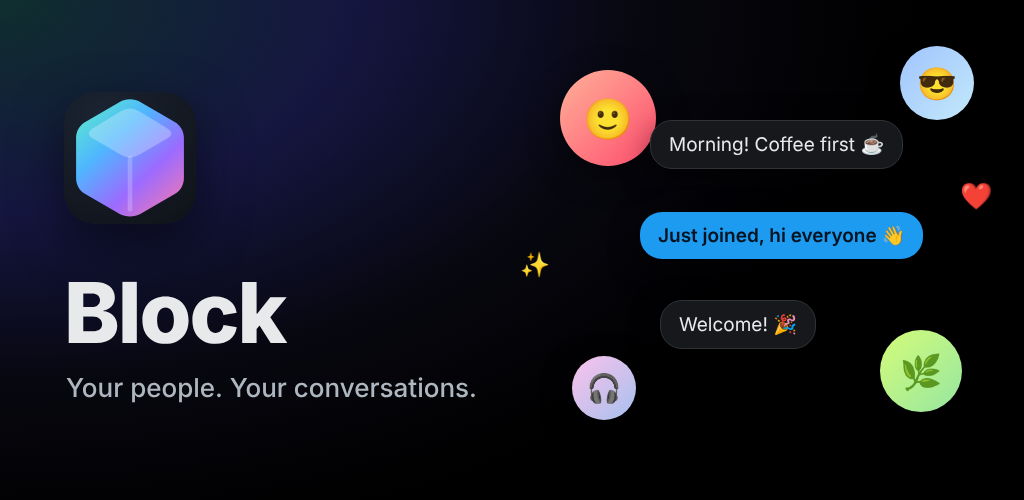
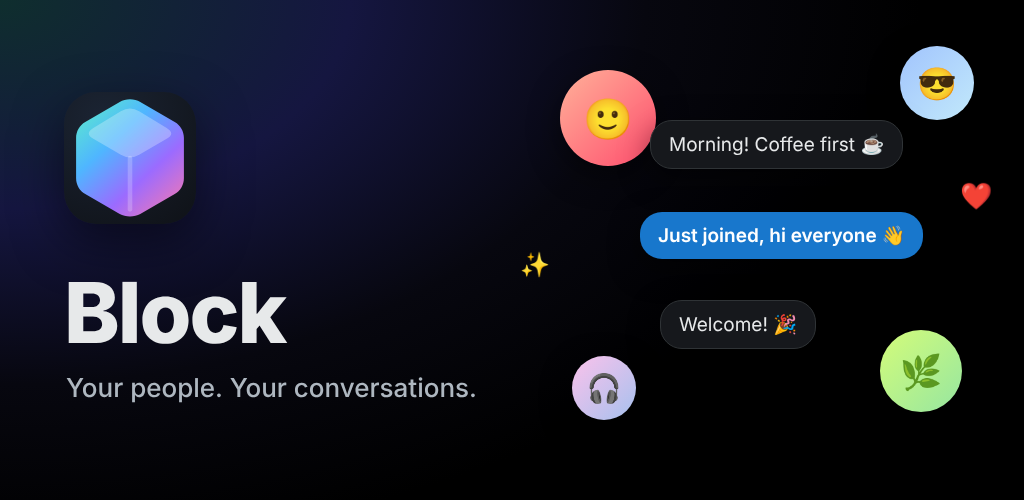
Aurora: deeper sky blue so the New post plus can be white
The accent becomes #1877CC with white on it (4.6:1); it still reads as link
text on black (4.5:1). #1673C2 would be under 4.5:1 as text on black, so
this is the nearest blue that passes both. Captions stay #8B98A5. The store
feature graphic follows.

Claude-Session: https://claude.ai/code/session_01YZhCTQfTgNihqHBkGb9A6s

Changed region(s): [[0.625, 0.42, 0.9062, 0.54]]

diff --git a/app/src/main/java/com/example/btcwidget/theme/AppLook.kt b/app/src/main/java/com/example/btcwidget/theme/AppLook.kt
@@ -14,7 +14,7 @@ enum class AppLook(val id: String, val title: String, val summary: String, val c
      * so they stay readable on sheets.
      */
     AURORA(
-        "aurora", "Aurora", "Black with a soft aurora and sky blue",
+        "aurora", "Aurora", "Black with a soft aurora and deep sky blue",
         LookColors(
             background = 0xFF000000.toInt(),
             body = 0xFF16181C.toInt(),
@@ -24,9 +24,9 @@ enum class AppLook(val id: String, val title: String, val summary: String, val c
             caption = 0xFF8B98A5.toInt(),
             track = 0xFF333639.toInt(),
             alert = 0xFFF4212E.toInt(),
-            accent = 0xFF1D9BF0.toInt(),
-            // Dark ink on the blue: white would be too faint to read there (under 4.5:1).
-            onAccent = 0xFF04131F.toInt(),
+            // A deeper sky blue, so white reads on it (4.6:1) and it still reads as text on black (4.5:1).
+            accent = 0xFF1877CC.toInt(),
+            onAccent = 0xFFFFFFFF.toInt(),
             sheet = 0xFF16181C.toInt(),
             success = 0xFF00BA7C.toInt(),
             glow = Glow(

diff --git a/app/src/main/java/com/example/btcwidget/ui/social/ThaiStrings.kt b/app/src/main/java/com/example/btcwidget/ui/social/ThaiStrings.kt
@@ -1108,6 +1108,6 @@ internal val THAI: Map<String, String> = hashMapOf(
     "New here and saying hi" to "คนมาใหม่ที่กำลังทักทาย",
     // Looks
     "Aurora" to "Aurora",
-    "Black with a soft aurora and sky blue" to "ดำ มีแสง aurora จางๆ และสีฟ้า",
+    "Black with a soft aurora and deep sky blue" to "ดำ มีแสง aurora จางๆ และสีฟ้าเข้ม",
     "Graphite" to "Graphite",
 )

diff --git a/app/src/test/java/com/example/btcwidget/theme/AppLookTest.kt b/app/src/test/java/com/example/btcwidget/theme/AppLookTest.kt
@@ -105,7 +105,8 @@ class AppLookTest {
         assertEquals(0xFF000000.toInt(), c.background)
         assertEquals(0xFF16181C.toInt(), c.body)
         assertEquals(0xFFE7E9EA.toInt(), c.value)
-        assertEquals(0xFF1D9BF0.toInt(), c.accent)
+        assertEquals(0xFF1877CC.toInt(), c.accent)
+        assertEquals(0xFFFFFFFF.toInt(), c.onAccent)
         assertEquals(0xFF000000.toInt(), c.glow!!.colors.last())
     }
 
